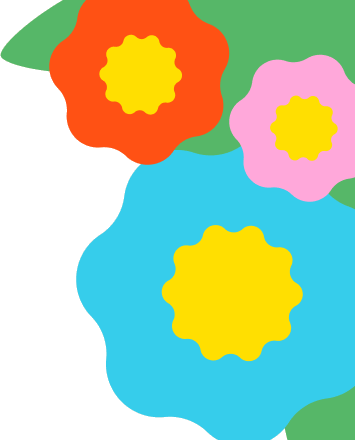
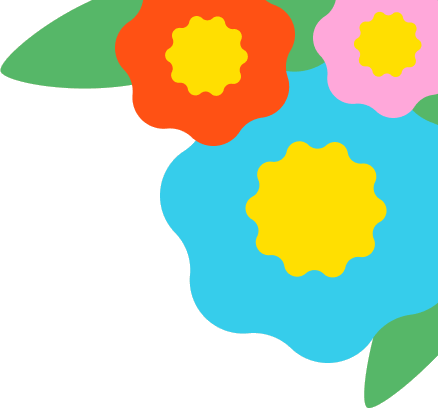
events.html: оновлено правий верхній декор за новим дизайном Figma
Користувач змінила у Figma («знайти подію bg») розташування й склад
правого верхнього кластера квітів. Оновлено лише цей елемент.

- find-flowers-right перевитягнуто з оновленого фону: блакитна квітка
  тепер ціла (в кадрі), за правий край бликають рожева квітка + листок —
  точно як у дизайні.
- Позиція під дизайн: right:0, top:-3vw (легкий виліт угору під хедер),
  width:23vw (пропорція кадру 1920 → 1:1 при 1920px).
- Звірено side-by-side із Figma-рендером при 1920px.

QA @375/1280/1440/1920: h-overflow=0, console=0.

diff --git a/events.html b/events.html
@@ -11,7 +11,7 @@
 <link rel="manifest" href="assets/site.webmanifest">
 <link rel="preconnect" href="https://fonts.googleapis.com"><link rel="preconnect" href="https://fonts.gstatic.com" crossorigin>
 <link rel="stylesheet" href="https://fonts.googleapis.com/css2?family=Unbounded:wght@600;700;800&family=Inter:wght@400;500;600;700&display=swap">
-<link rel="stylesheet" href="css/site.css?v=20260527n">
+<link rel="stylesheet" href="css/site.css?v=20260527r">
 </head>
 <body>
 <a href="#main" class="skip-link">Перейти до основного вмісту</a>
@@ -45,7 +45,7 @@
   <section class="hero hero--find">
     <div class="hero__bg" aria-hidden="true"></div>
     <img class="find-flowers find-flowers--left" src="assets/find-flowers-left.png?v=20260527n" alt="" aria-hidden="true">
-    <img class="find-flowers find-flowers--right" src="assets/find-flowers-right.png?v=20260527n" alt="" aria-hidden="true">
+    <img class="find-flowers find-flowers--right" src="assets/find-flowers-right.png?v=20260527r" alt="" aria-hidden="true">
     <img class="find-ant" src="assets/ant-map.svg?v=20260527j" alt="" aria-hidden="true">
     <div class="container hero__inner">
       <span class="eyebrow">Львів · вихідні</span>

diff --git a/css/site.css b/css/site.css
@@ -567,7 +567,7 @@ a.card:hover, a.card-link:hover { color: inherit; }
 .hero--find { padding-bottom: var(--space-16); }
 .hero--find .find-flowers { position: absolute; top: 0; z-index: 0; height: auto; pointer-events: none; }
 .hero--find .find-flowers--left { left: 0; width: 200px; }
-.hero--find .find-flowers--right { right: 0; width: 240px; }
+.hero--find .find-flowers--right { right: 0; top: -3vw; width: 23vw; }
 .hero--find .find-ant { position: absolute; right: 20%; bottom: 4%; width: 160px; height: auto; z-index: 0; pointer-events: none; }
 @media (max-width: 1240px) {
   .page-find .find-green { display: none; }
